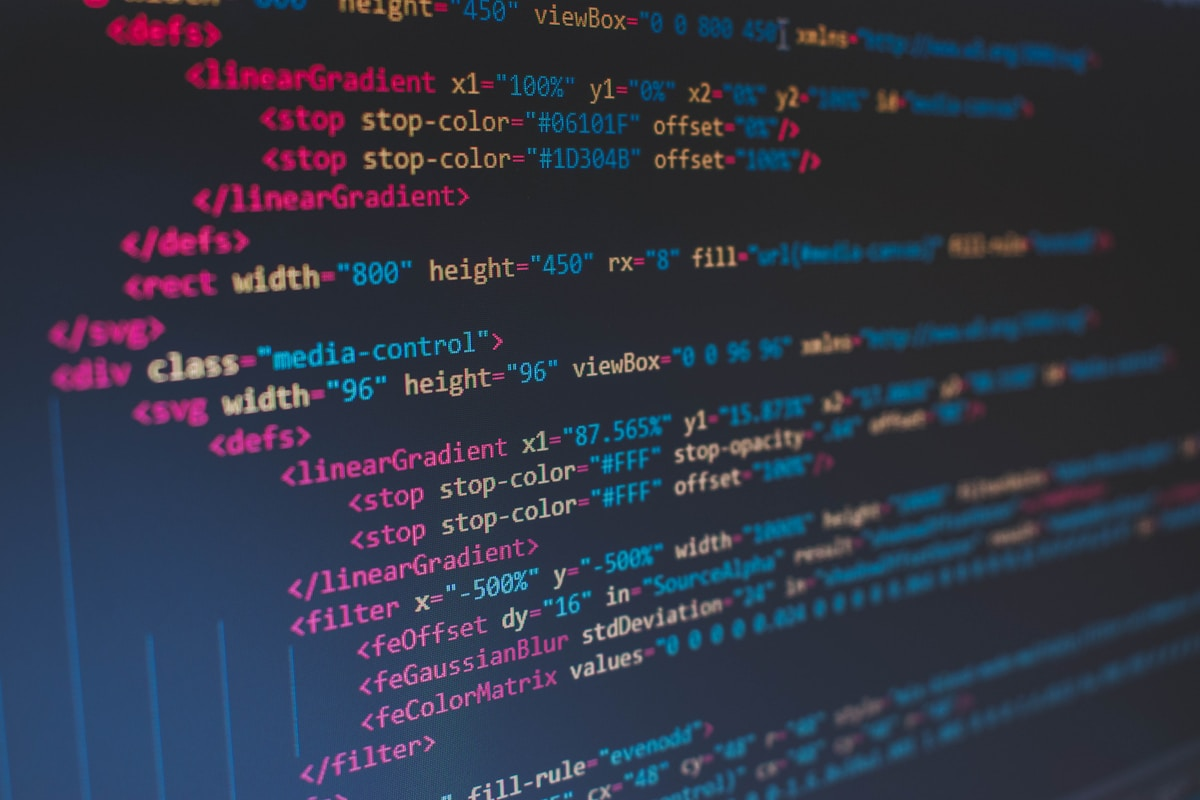
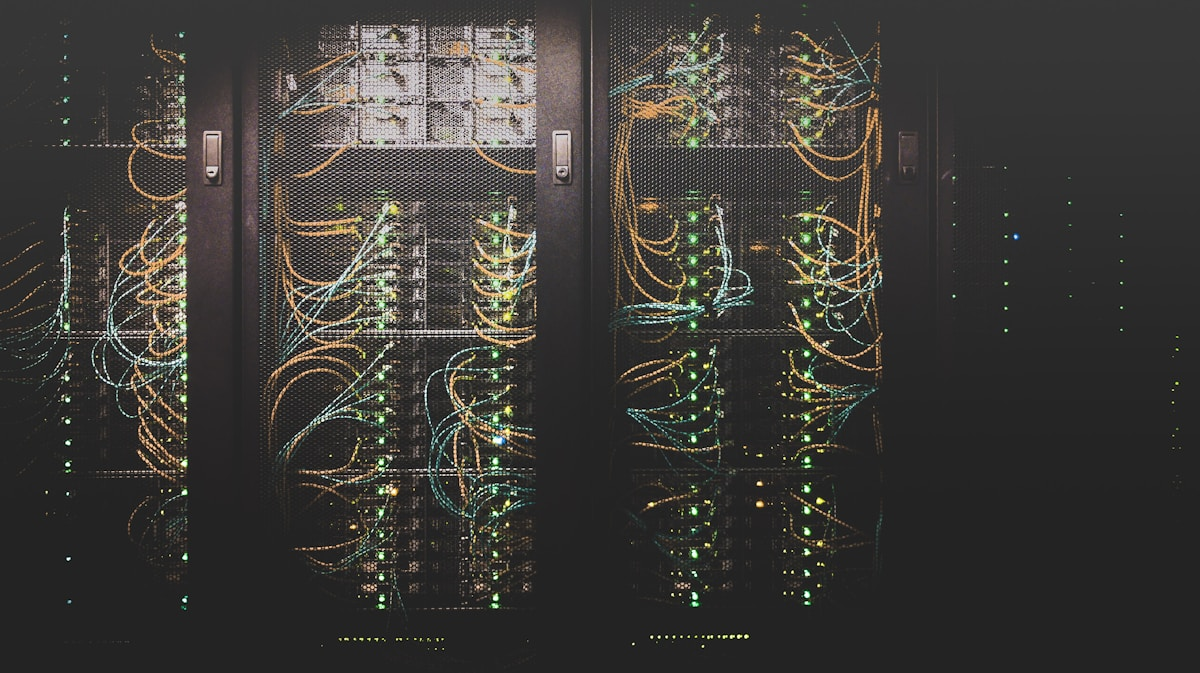
feat: restore Print & Collateral service card + refresh all 4 service images
- Add Print & Collateral back as 4th service (trade show, signage, packaging, business cards)
- New service-ui-design.jpg: Figma on iMac with dark app UI screens
- New service-brand-identity.jpg: designer at ultrawide with brand style guide open
- New service-ai-engineering.jpg: dark server rack with glowing cables
- New service-print-collateral.jpg: Pantone color swatch + Wacom print design workflow
- Grid updated to 1 → 2 → 4 columns (1col mobile, 2col tablet, 4col desktop)
- Print icon: printer SVG (Lucide-style)

diff --git a/src/components/sections/Services.tsx b/src/components/sections/Services.tsx
@@ -4,7 +4,7 @@ import { FadeInOnScroll, StaggeredReveal } from '../shared/ScrollAnimations'
 
 const services = [
   {
-    image: '/images/sections/service-ui-design.png',
+    image: '/images/sections/service-ui-design.jpg',
     icon: (
       <svg xmlns="http://www.w3.org/2000/svg" width="32" height="32" viewBox="0 0 24 24" fill="none" stroke="currentColor" strokeWidth="1.5" strokeLinecap="round" strokeLinejoin="round">
         <rect width="18" height="18" x="3" y="3" rx="2"/>
@@ -21,9 +21,8 @@ const services = [
     image: '/images/sections/service-brand-identity.jpg',
     icon: (
       <svg xmlns="http://www.w3.org/2000/svg" width="32" height="32" viewBox="0 0 24 24" fill="none" stroke="currentColor" strokeWidth="1.5" strokeLinecap="round" strokeLinejoin="round">
-        <path d="M12 3 2 12h3v9h14v-9h3L12 3z"/>
-        <path d="M12 3v6"/>
-        <path d="m8 7 4-4 4 4"/>
+        <path d="M12 2a5 5 0 1 0 0 10A5 5 0 0 0 12 2z"/>
+        <path d="M2 20c0-4 4-7 10-7s10 3 10 7"/>
       </svg>
     ),
     title: 'Brand Identity for Digital Products',
@@ -45,6 +44,20 @@ const services = [
       'End-to-end SaaS builds with React, TypeScript, Supabase, and AI provider routing. Stripe checkout, edge functions, agent orchestration. The pipeline that ships my own products is the same one I bring to client work.',
     features: ['React + TypeScript', 'Supabase / Edge Functions', 'Stripe Integration', 'AI Agent Systems', 'Production Deploys'],
   },
+  {
+    image: '/images/sections/service-print-collateral.jpg',
+    icon: (
+      <svg xmlns="http://www.w3.org/2000/svg" width="32" height="32" viewBox="0 0 24 24" fill="none" stroke="currentColor" strokeWidth="1.5" strokeLinecap="round" strokeLinejoin="round">
+        <path d="M6 18H4a2 2 0 0 1-2-2v-5a2 2 0 0 1 2-2h16a2 2 0 0 1 2 2v5a2 2 0 0 1-2 2h-2"/>
+        <path d="M6 9V3a1 1 0 0 1 1-1h10a1 1 0 0 1 1 1v6"/>
+        <rect x="6" y="14" width="12" height="8" rx="1"/>
+      </svg>
+    ),
+    title: 'Print & Collateral',
+    description:
+      'Trade show booths, event signage, packaging, business cards, and large-format displays. Brand built for the physical world — consistent from screen to banner to booth.',
+    features: ['Trade Show Booths', 'Event Signage', 'Packaging', 'Business Cards', 'Large-Format Print'],
+  },
 ]
 
 export function Services() {
@@ -64,7 +77,7 @@ export function Services() {
         </FadeInOnScroll>
 
         <StaggeredReveal
-          className="grid grid-cols-1 md:grid-cols-3 gap-6"
+          className="grid grid-cols-1 sm:grid-cols-2 lg:grid-cols-4 gap-6"
           staggerDelay={0.1}
         >
           {services.map((service) => (